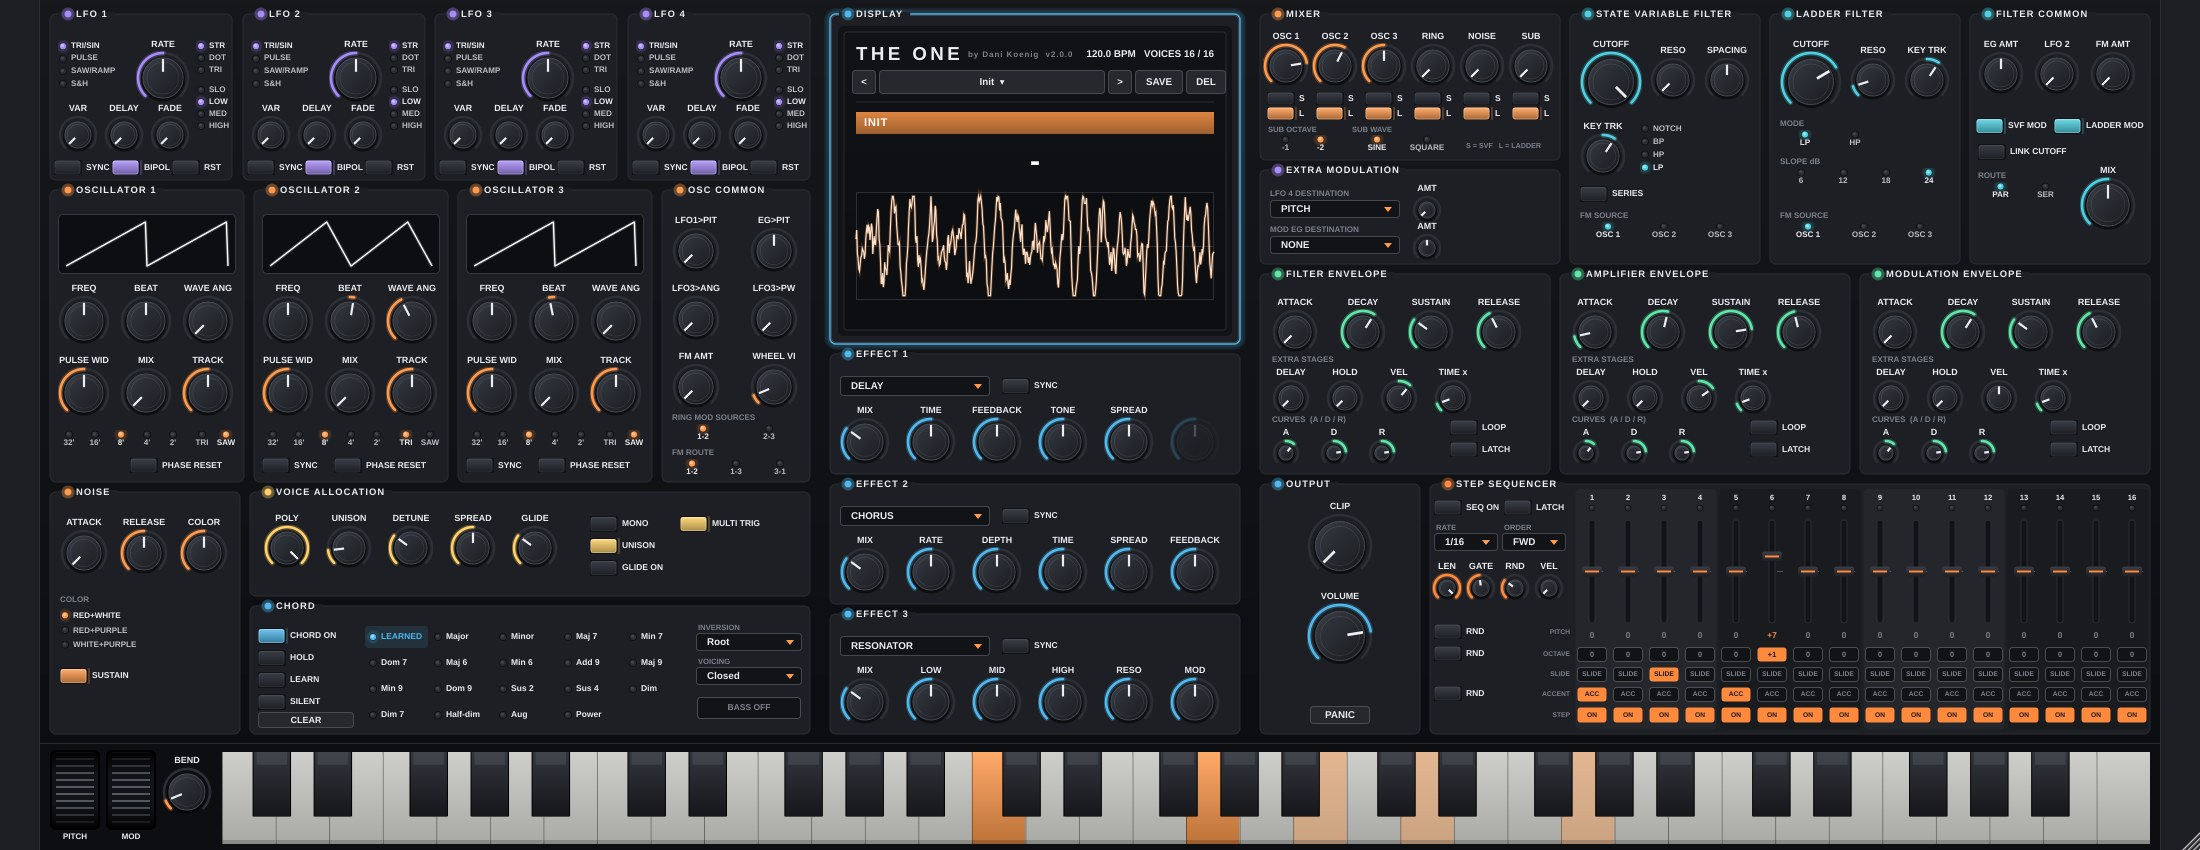
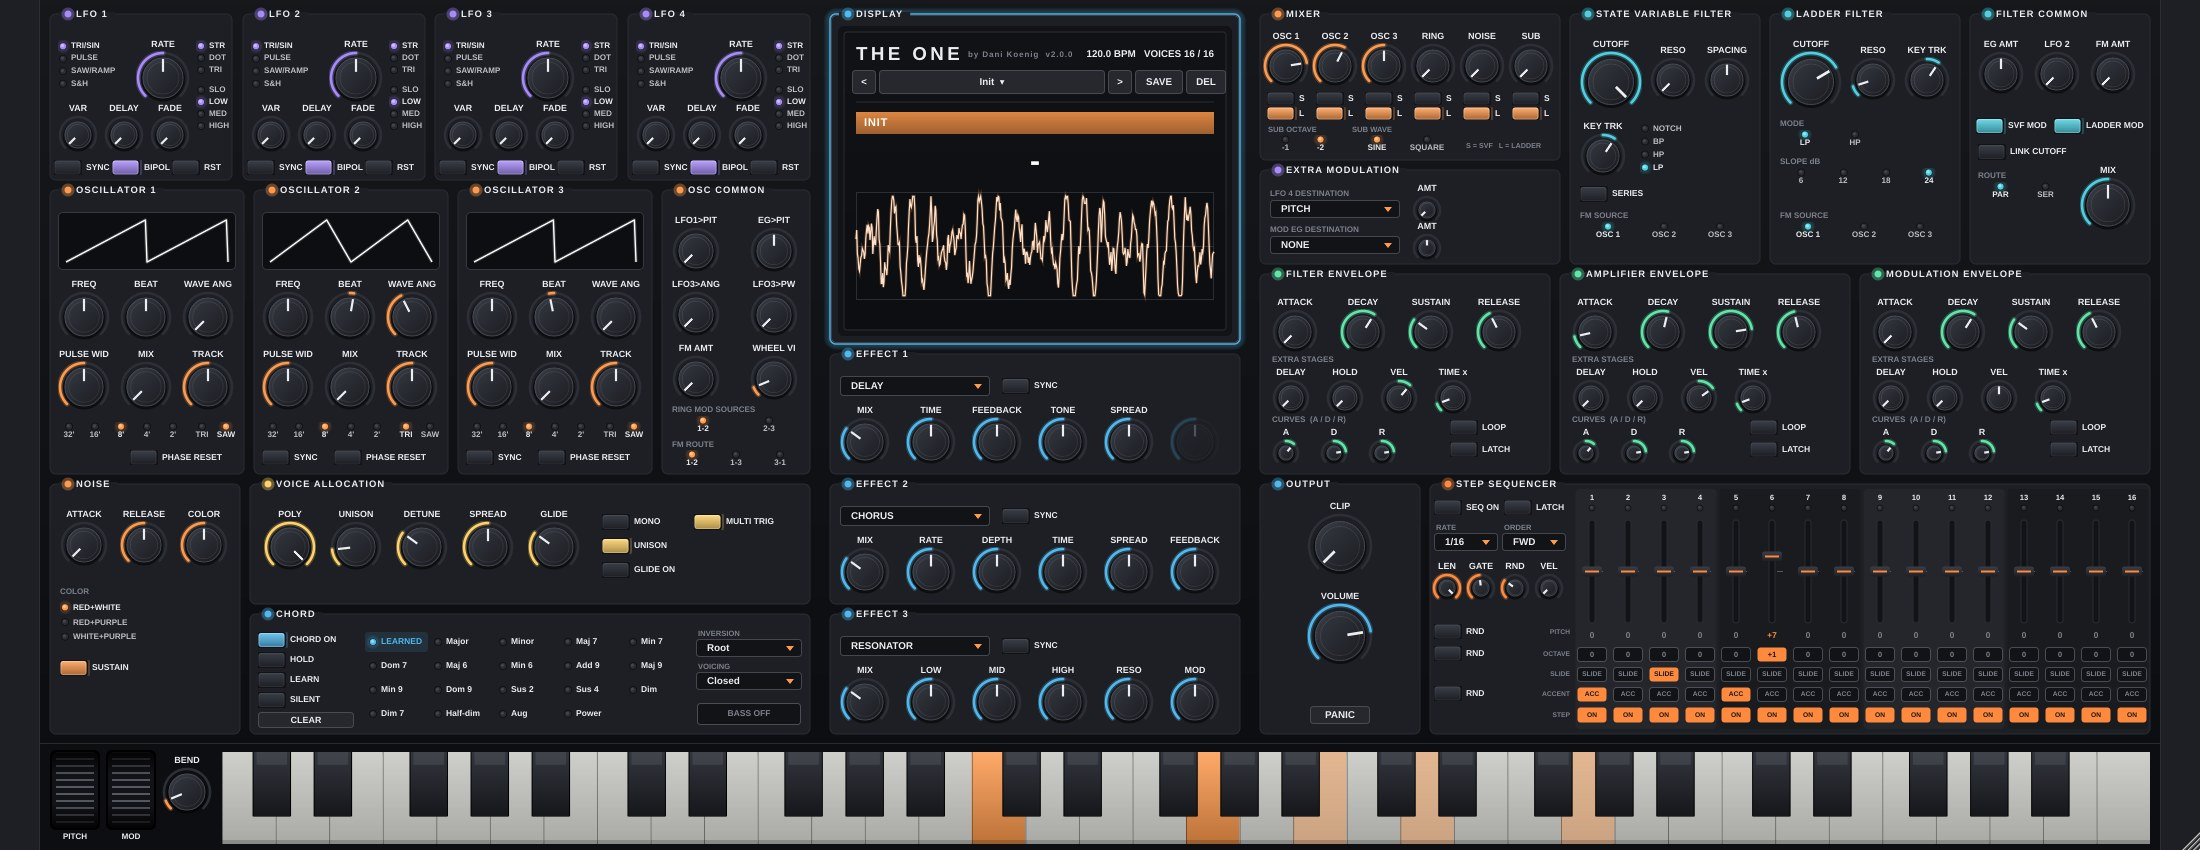
The One 2.0.1
Claude-Session: https://claude.ai/code/session_01DHh9XmcvEFLDP1V6KGCuje

diff --git a/index.html b/index.html
@@ -236,7 +236,7 @@ footer p{margin:0;max-width:60ch}
   // Edit here. reel = YouTube Shorts ID (youtube.com/shorts/ID), leave '' to hide the Watch reel button.
   const GH = 'https://github.com/danikoenig/';
   const plugins = [
-    {kind:'Polyphonic synth', repo:'TheOne', name:'The One', ver:'2.0.0', c:'#ff8a3d', img:'the-one', wide:true,
+    {kind:'Polyphonic synth', repo:'TheOne', name:'The One', ver:'2.0.1', c:'#ff8a3d', img:'the-one', wide:true,
      sub:'16-voice polyphonic synth, inspired by the Moog One. Big wide panel, every control on the surface, no menus.',
      feat:['3 oscillators with wave angle, pulse, hard sync and FM, plus sub oscillator, ring mod and noise','State variable and ladder filter, in series or parallel, 3 envelopes and 4 LFOs with tempo sync','Chords on every key: 18 types or your own, with inversion, voicing and bass note. Unison, glide, hold','16-step sequencer: pitch, octave, slide and accent per step, random variations, mute/skip, random order','3 effect slots: delays, chorus, flanger, phaser, bit crusher, resonator'],
      meta:['VST3','AU','CLAP','Standalone','Instrument'], reel:'i6I7YBhgbRE'},
